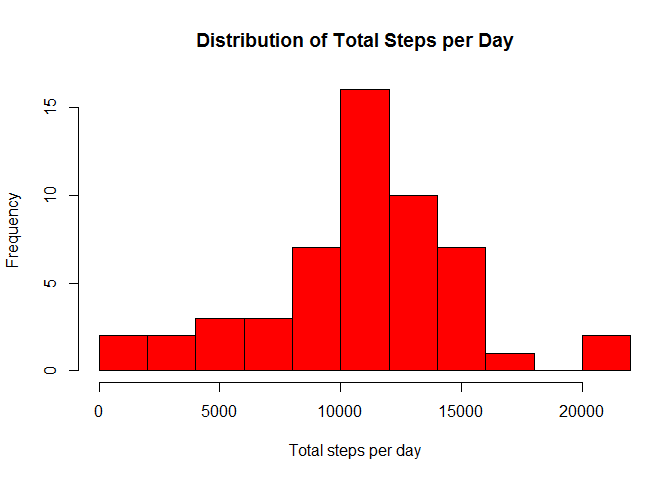
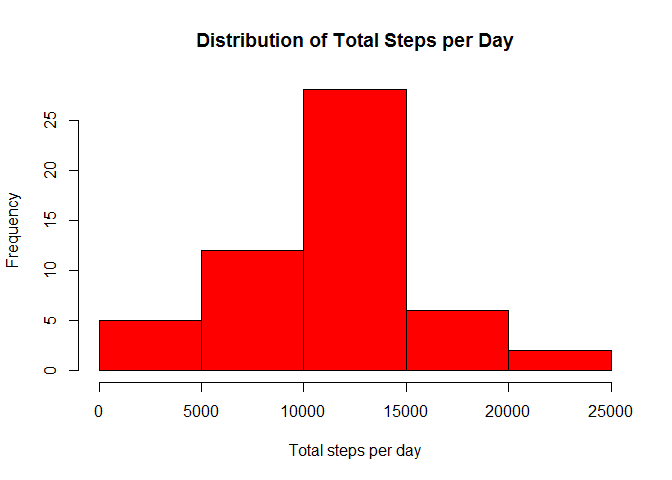
Third part of assignment

diff --git a/PA1_template.html b/PA1_template.html
@@ -82,10 +82,9 @@ activityData &lt;- read.csv(&quot;activity.csv&quot;)</code></pre>
 <pre class="r"><code>hist(stepsPerDay$steps, 
      main=&quot;Distribution of Total Steps per Day&quot;, 
      xlab = &quot;Total steps per day&quot;, 
-     col = &quot;red&quot;, 
-     breaks=10, 
-     xlim = c(0,max(stepsPerDay$steps)))</code></pre>
[1 lines of base64/hex data omitted]
+     col = &quot;red&quot;
+     )</code></pre>
[1 lines of base64/hex data omitted]
 <p>Now, calculate the mean and median number of steps per day.</p>
 <pre class="r"><code>meanStepsPerDay &lt;- as.character(round(mean(stepsPerDay$steps),2))
 medianStepsPerDay &lt;- median(stepsPerDay$steps)</code></pre>
@@ -94,7 +93,10 @@ medianStepsPerDay &lt;- median(stepsPerDay$steps)</code></pre>
 <div id="what-is-the-average-daily-activity-pattern" class="section level2">
 <h2>What is the average daily activity pattern?</h2>
 <p>Calculate the average steps per 5-minute interval (averaged accross all days)</p>
-<pre class="r"><code>stepsPerInterval &lt;- aggregate(steps ~ interval, data=activityData, FUN=mean)</code></pre>
+<pre class="r"><code>stepsPerInterval &lt;- aggregate(
+    steps ~ interval, 
+    data=activityData, 
+    FUN=mean)</code></pre>
 <p>Plot a time-series of this information</p>
 <pre class="r"><code>plot(stepsPerInterval, 
      type=&quot;l&quot;, 
@@ -102,7 +104,10 @@ medianStepsPerDay &lt;- median(stepsPerDay$steps)</code></pre>
      ylab=&quot;Average Number of Steps&quot;, 
      xlab=&quot;5-minute Interval&quot;, 
      col=&quot;red&quot;)
-polygon(x=stepsPerInterval$interval, y=stepsPerInterval$steps, col=&quot;red&quot;)</code></pre>
+polygon(
+    x=stepsPerInterval$interval, 
+    y=stepsPerInterval$steps, 
+    col=&quot;red&quot;)</code></pre>
[1 lines of base64/hex data omitted]
 <p>Calculate the 5-minute interval containing the maximum average number of steps</p>
 <pre class="r"><code>intervalOfMaxMeanSteps &lt;- subset(
@@ -113,6 +118,57 @@ polygon(x=stepsPerInterval$interval, y=stepsPerInterval$steps, col=&quot;red&quo
 </div>
 <div id="imputing-missing-values" class="section level2">
 <h2>Imputing missing values</h2>
+<ol style="list-style-type: decimal">
+<li>Calculate and report the total number of missing values in the dataset (i.e. the total number of rows with NAs)</li>
+</ol>
+<pre class="r"><code>missingDataTable &lt;- table(is.na(activityData$steps))
+totalEntries &lt;- nrow(activityData)
+missingEntries &lt;- missingDataTable[[&quot;TRUE&quot;]]
+missingPercentage &lt;- round(100*(missingEntries/totalEntries),1)</code></pre>
+<p>Out of 17568 entries, <strong>2304</strong> or <strong>13.1%</strong> are missing data.</p>
+<ol start="2" style="list-style-type: decimal">
+<li><p>Devise a strategy for filling in all of the missing values in the dataset. The strategy will be to use the mean value for the same time interval</p></li>
+<li><p>Create a new dataset that is equal to the original dataset but with the missing data filled in.</p></li>
+</ol>
+<p>First, append the mean steps per interval into a new data frame</p>
+<pre class="r"><code>activityDataWithoutNA &lt;- merge(
+    x = activityData, 
+    y=stepsPerInterval, 
+    by=&quot;interval&quot;)</code></pre>
+<p>Calculate steps as the original, if not NA, and the mean if NA</p>
+<pre class="r"><code>activityDataWithoutNA &lt;- transform(
+    activityDataWithoutNA, 
+    steps=ifelse(is.na(steps.x), steps.y,steps.x)
+    )</code></pre>
+<p>Now eliminate the extra columns to get a clean data set</p>
+<pre class="r"><code>activityDataWithoutNA &lt;- subset(
+    activityDataWithoutNA, 
+    select = c(steps,date,interval) 
+    )</code></pre>
+<ol start="4" style="list-style-type: decimal">
+<li>Make a histogram of the total number of steps taken each day and Calculate and report the mean and median total number of steps taken per day.</li>
+</ol>
+<pre class="r"><code>stepsPerDayWithoutNA &lt;- aggregate(
+    steps ~ date, 
+    data=activityDataWithoutNA, 
+    FUN=sum)</code></pre>
+<p>Histogram of total steps per day</p>
+<pre class="r"><code>par(mfcol = c(1,2))
+
+hist(stepsPerDay$steps, 
+     main=&quot;With NAs&quot;, 
+     xlab = &quot;Total steps per day&quot;, 
+     col = &quot;red&quot;,
+     ylim=c(0,35)
+ )
+
+hist(stepsPerDayWithoutNA$steps, 
+     main=&quot;NAs Replaced by Mean&quot;, 
+     xlab = &quot;Total steps per day&quot;, 
+     col = &quot;red&quot;,
+     ylim=c(0,35)
+     )</code></pre>
[1 lines of base64/hex data omitted]
 </div>
 <div id="are-there-differences-in-activity-patterns-between-weekdays-and-weekends" class="section level2">
 <h2>Are there differences in activity patterns between weekdays and weekends?</h2>

diff --git a/PA1_template.md b/PA1_template.md
@@ -30,9 +30,8 @@ Histogram of total steps per day
 hist(stepsPerDay$steps, 
      main="Distribution of Total Steps per Day", 
      xlab = "Total steps per day", 
-     col = "red", 
-     breaks=10, 
-     xlim = c(0,max(stepsPerDay$steps)))
+     col = "red"
+     )
 ```
 
 ![](PA1_template_files/figure-html/HistStepsPerDay-1.png) 
@@ -49,7 +48,10 @@ The mean steps per day is **10766.19** and the median is **10765**
 Calculate the average steps per 5-minute interval (averaged accross all days)
 
 ```r
-stepsPerInterval <- aggregate(steps ~ interval, data=activityData, FUN=mean)
+stepsPerInterval <- aggregate(
+    steps ~ interval, 
+    data=activityData, 
+    FUN=mean)
 ```
 Plot a time-series of this information
 
@@ -60,7 +62,10 @@ plot(stepsPerInterval,
      ylab="Average Number of Steps", 
      xlab="5-minute Interval", 
      col="red")
-polygon(x=stepsPerInterval$interval, y=stepsPerInterval$steps, col="red")
+polygon(
+    x=stepsPerInterval$interval, 
+    y=stepsPerInterval$steps, 
+    col="red")
 ```
 
 ![](PA1_template_files/figure-html/AvgStepsPer5MinInterval-1.png) 
@@ -76,7 +81,79 @@ intervalOfMaxMeanSteps <- subset(
 The 5-minute interval is **835**
 
 ## Imputing missing values
+1. Calculate and report the total number of missing values in the dataset (i.e. the total number of rows with NAs)
 
+```r
+missingDataTable <- table(is.na(activityData$steps))
+totalEntries <- nrow(activityData)
+missingEntries <- missingDataTable[["TRUE"]]
+missingPercentage <- round(100*(missingEntries/totalEntries),1)
+```
+Out of 17568 entries, **2304** or **13.1%** are missing data.
+
+2. Devise a strategy for filling in all of the missing values in the dataset. 
+The strategy will be to use the mean value for the same time interval
+
+3. Create a new dataset that is equal to the original dataset but with the missing data filled in.
+
+First, append the mean steps per interval into a new data frame
+
+```r
+activityDataWithoutNA <- merge(
+    x = activityData, 
+    y=stepsPerInterval, 
+    by="interval")
+```
+
+Calculate steps as the original, if not NA, and the mean if NA
+
+```r
+activityDataWithoutNA <- transform(
+    activityDataWithoutNA, 
+    steps=ifelse(is.na(steps.x), steps.y,steps.x)
+    )
+```
+
+Now eliminate the extra columns to get a clean data set
+
+```r
+activityDataWithoutNA <- subset(
+    activityDataWithoutNA, 
+    select = c(steps,date,interval) 
+    )
+```
+
+4. Make a histogram of the total number of steps taken each day and Calculate and report the mean and median total number of steps taken per day.
+
+
+```r
+stepsPerDayWithoutNA <- aggregate(
+    steps ~ date, 
+    data=activityDataWithoutNA, 
+    FUN=sum)
+```
+
+Histogram of total steps per day
+
+```r
+par(mfcol = c(1,2))
+
+hist(stepsPerDay$steps, 
+     main="With NAs", 
+     xlab = "Total steps per day", 
+     col = "red",
+     ylim=c(0,35)
+ )
+
+hist(stepsPerDayWithoutNA$steps, 
+     main="NAs Replaced by Mean", 
+     xlab = "Total steps per day", 
+     col = "red",
+     ylim=c(0,35)
+     )
+```
+
+![](PA1_template_files/figure-html/HistStepsPerDayWithoutNA-1.png) 
 
 
 ## Are there differences in activity patterns between weekdays and weekends?
